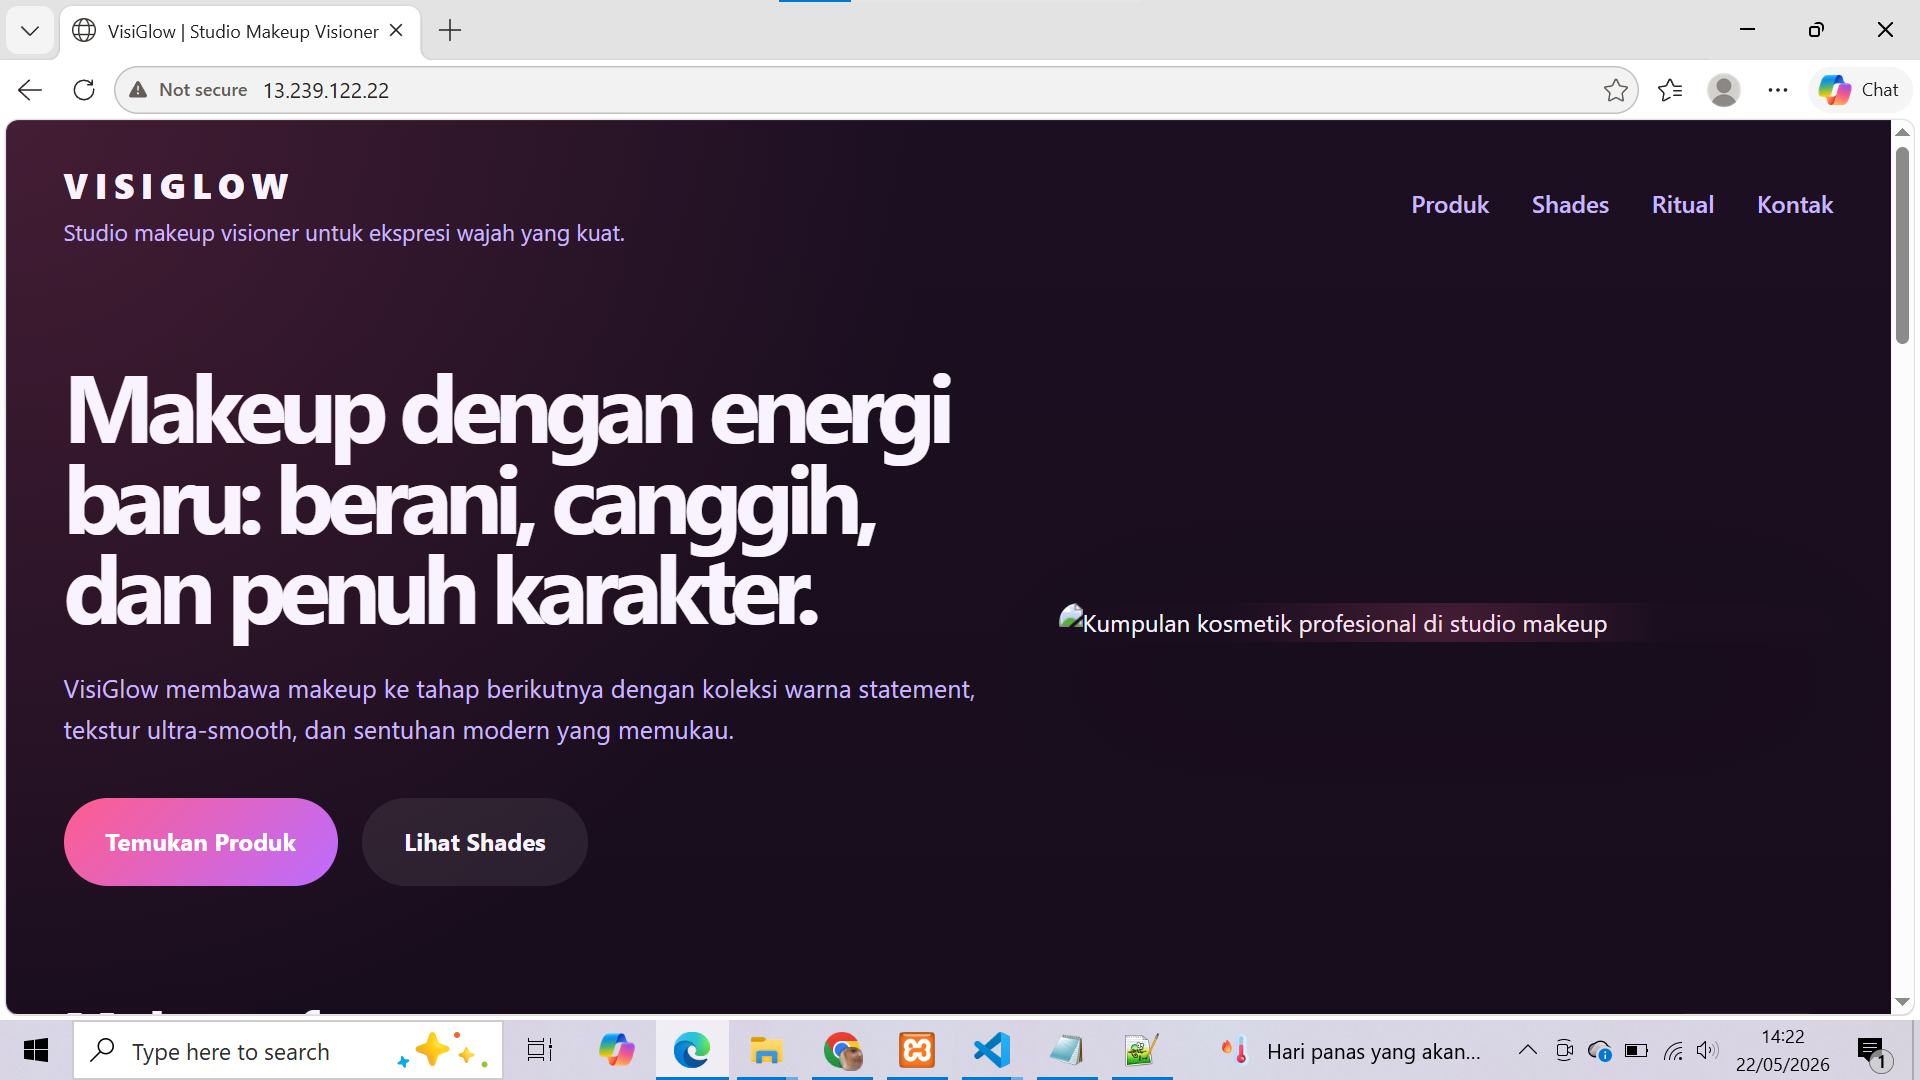
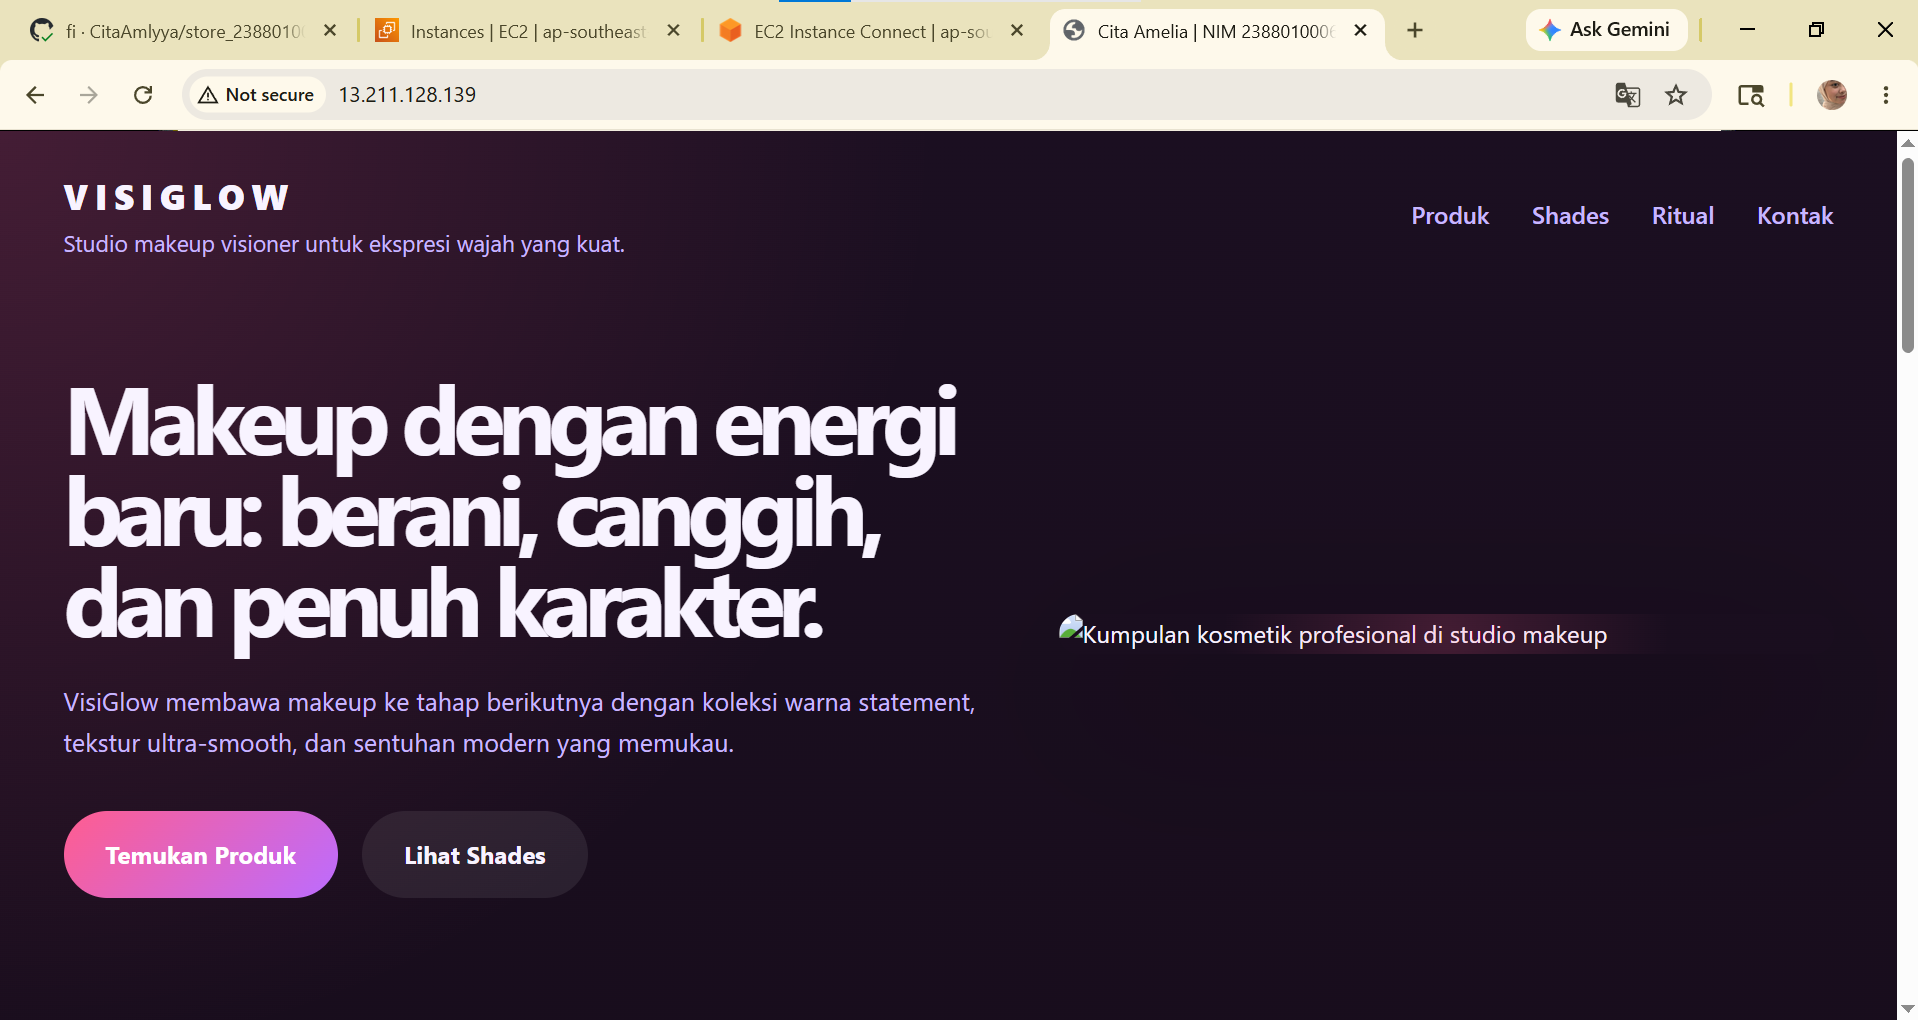
tambah pertemuan-12 & perbaikan pertemuan-11

diff --git a/Pertemuan12/dockerCompose.md b/Pertemuan12/dockerCompose.md
@@ -30,6 +30,10 @@
 15. Commit Changes ke GitHub dari lokal
 16. Push Changes ke GitHub
 17. Cek di Github, apakah actions jalan dan berhasil
-
+![alt text](image-3.png)
+18. Cek di AWS, apakah container berjalan dengan baik
+![alt text](image-4.png)
+19. Akses web melalui Browser login admin edit Layanan
+![alt text](image-5.png)
 
 
